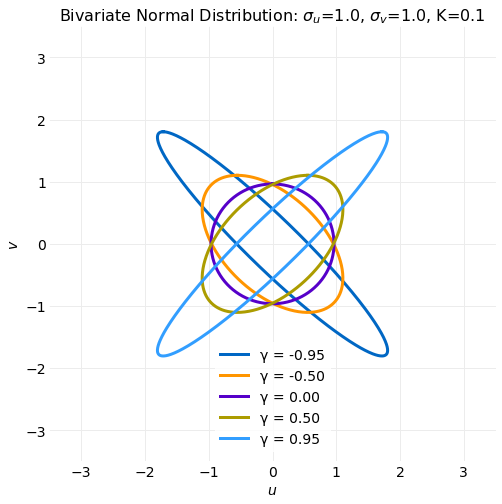
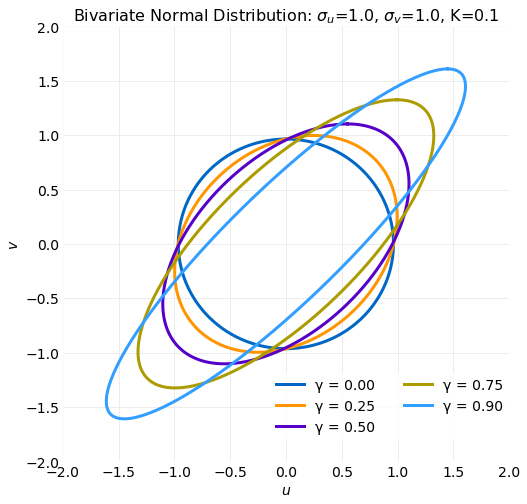
debuging contour plots

diff --git a/hydrogen_notebooks/distributions/bivariate_normal_distribution.py b/hydrogen_notebooks/distributions/bivariate_normal_distribution.py
@@ -56,7 +56,9 @@ def pdf_transform_y2_constant(μ1, μ2, σ1, σ2, γ, c2):
     return f
 
 def pdf_contour_constant(μ1, μ2, σ1, σ2, γ, v):
-    return numpy.sqrt(-2.0 * (1.0 - γ**2) * numpy.log(2.0*numpy.pi * σ1 * σ2 * v * numpy.sqrt(1.0 - γ**2)))
+    t1 = 2.0*numpy.pi * σ1 * σ2 * v * numpy.sqrt(1.0 - γ**2)
+    t2 = -2.0 * (1.0 - γ**2)
+    return numpy.sqrt(t2 * numpy.log(t1))
 
 def max_pdf_value(σ1, σ2, γ):
     return 1.0/(2.0 * numpy.pi * σ1 * σ2 * numopy.sqrt(1.0 - γ**2))
@@ -66,6 +68,15 @@ def pdf_parametric_contour(μ1, μ2, σ1, σ2, γ):
         y1 = c * σ1 * (numpy.sin(θ) + numpy.cos(θ) * γ / numpy.sqrt(1.0 - γ**2)) + μ1
         y2 = c * σ2 * numpy.cos(θ) / numpy.sqrt(1.0 - γ**2) + μ2
         return (y1, y2)
+    return f
+
+def r(μ1, μ2, σ1, σ2, γ):
+    def f(θ, c):
+        t1 = numpy.sin(θ)**2
+        t2 = (2.0*γ/numpy.sqrt(1-γ**2))*numpy.sin(θ)*numpy.cos(θ)
+        t3 = numpy.cos(θ)**2/(1-γ**2)**2
+        t4 = γ**2 + σ2**2/σ1**2
+        return σ1*c*numpy.sqrt(t1 + t2 + t3*t4)
     return f
 
 # %%
@@ -298,7 +309,7 @@ parametric_contour_plot(μ1, μ2, σ1, σ2, γ, (0.32, 0.95),
 σ2 = 1.0
 μ1 = 0.0
 μ2 = 0.0
-γ = [-0.95, -0.5, 0.0, 0.5, 0.95]
+γ = [0.0, 0.25, 0.5, 0.75, 0.9]
 contour_value = 0.1
 
 npts = 500
@@ -307,8 +318,8 @@ npts = 500
 figure, axis = pyplot.subplots(figsize=(8, 8))
 axis.set_xlabel(r"$u$")
 axis.set_ylabel(r"$v$")
-axis.set_xlim([-3.5*σ1, 3.5*σ1])
-axis.set_ylim([-3.5*σ2, 3.5*σ2])
+axis.set_xlim([-2.0*σ1, 2.0*σ1])
+axis.set_ylim([-2.0*σ2, 2.0*σ2])
 title = f"Bivariate Normal Distribution: " + \
          r"$σ_u$=" + f"{format(σ1, '2.1f')}, " + r"$σ_v$=" + \
          f"{format(σ2, '2.1f')}, K={format(contour_value, '2.1f')}"
@@ -320,8 +331,47 @@ for i in range(len(γ)):
     y1, y2 = f(θ, c)
     axis.plot(y1, y2, label=f"γ = {format(γ[i], '2.2f')}")
 
-axis.legend(bbox_to_anchor=(0.5, 0.29))
+axis.legend(bbox_to_anchor=(0.45, 0.22), ncol=2)
 config.save_post_asset(figure, "bivariate_normal_distribution", "bivariate_pdf_parameterized_contour_correlation_scan")
+
+# %%
+
+σ1 = 1.0
+σ2 = 1.0
+μ1 = 0.0
+μ2 = 0.0
+γ = 0.9
+contour_value = 0.1
+c = pdf_contour_constant(μ1, μ2, σ1, σ2, γ, contour_value)
+rf = r(μ1, μ2, σ1, σ2, γ)
+rf(0, c)
+f = pdf_parametric_contour(μ1, μ2, σ1, σ2, γ)
+u, v = f(θ, c)
+u[0]
+v[0]
+figure, axis = pyplot.subplots(figsize=(8, 8))
+axis.set_xlabel(r"$\theta$")
+axis.set_ylabel(r"$r(\theta)$")
+axis.plot(θ, rf(θ, c))
+
+# %%
+γ = [0.0, 0.5, 0.75, 0.95]
+
+figure, axis = pyplot.subplots(figsize=(8, 8))
+axis.set_xlabel(r"$\theta$")
+axis.set_ylabel(r"$r(\theta)$")
+title = f"Bivariate Normal Distribution: " + \
+         r"$σ_u$=" + f"{format(σ1, '2.1f')}, " + r"$σ_v$=" + \
+         f"{format(σ2, '2.1f')}, K={format(contour_value, '2.1f')}"
+axis.set_title(title)
+
+for i in range(len(γ)):
+    c = pdf_contour_constant(μ1, μ2, σ1, σ2, γ[i], contour_value)
+    f = r(μ1, μ2, σ1, σ2, γ[i])
+    axis.plot(θ, f(θ, c), label=f"γ = {format(γ[i], '2.2f')}")
+
+axis.legend(bbox_to_anchor=(0.64, 0.55))
+config.save_post_asset(figure, "bivariate_normal_distribution", "bivariate_pdf_parameterized_contour_polar_coordinates_correlation_scan")
 
 # %%
 # Distribution variation with σ
